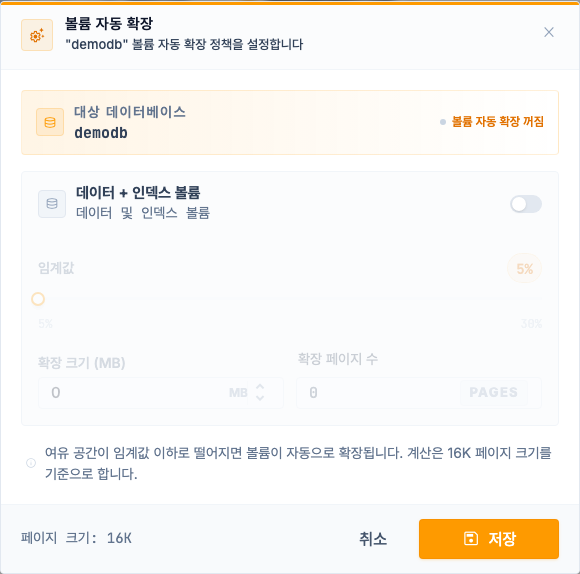
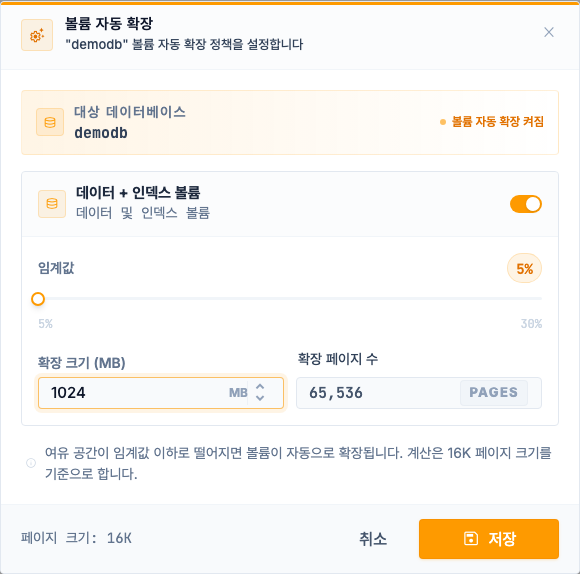
Capture missing screenshots: host groups, CMS user mgmt, DB user edit/delete
Adds real Playwright-captured screenshots for gaps flagged in review:
- auth.rst: header controls (language toggle, dark mode, logout) for the
  logout/language section, which had no screenshot at all
- host.rst: New Group, Rename Group, Manage Group, and Delete Group
  confirm dialogs; CMS User Management screen
- db_user.rst: Edit User and Delete User confirm dialogs
- automation.rst: recaptured query-plan.png and automation-set-volume.png
  filled with realistic values (schedule, threshold, expansion size)
  instead of empty defaults, so the screenshot actually shows what a
  configured plan looks like

Captured against the live demodb instance; the temporary group and DB
user created for the group-management and user edit/delete shots were
deleted again by the same script run, so no test data was left behind.

diff --git a/web-manager-manual/host.rst b/web-manager-manual/host.rst
@@ -98,11 +98,19 @@ NCA 서버가 해당 호스트에서 실행 중인 CMS(CUBRID Manager Server)의
 그룹 생성(New Group) / 이름 변경(Rename Group)
 ================================================
 
+.. image:: /images/host-group-new.png
+
 툴바 **새 그룹(New Group)** 또는 그룹 우클릭 → **그룹 이름 변경(Rename Group)** 을 선택한다. 필드는 **그룹 이름(Group Name)** \* 하나이며, 필수 입력 항목이다
 (비워두고 저장하면 "그룹 이름을 입력하세요." 오류가 표시된다).
 
+.. image:: /images/host-group-rename.png
+
+**그룹 이름 변경(Rename Group)** 은 같은 대화창을 재사용하며, 기존 이름이 미리 채워진 채로 열린다.
+
 그룹 삭제(Delete Group)
 ========================
+
+.. image:: /images/host-group-delete-confirm.png
 
 그룹 우클릭 → **그룹 삭제(Delete Group)** 을 선택한다.
 
@@ -113,11 +121,15 @@ NCA 서버가 해당 호스트에서 실행 중인 CMS(CUBRID Manager Server)의
 그룹 멤버 관리(Manage Group)
 ==============================
 
+.. image:: /images/host-group-manage.png
+
 그룹 우클릭 → **그룹 관리(Manage Group)** 을 선택한다. 호스트 목록에서 체크하면 그룹에 추가되고, 체크 해제하면 Ungrouped로 이동한다.
 저장 후 그룹이 자동으로 펼쳐지지 않으므로 직접 펼쳐서 확인한다.
 
 CMS 사용자 관리(User Management)
 ==================================
+
+.. image:: /images/host-cms-user-management.png
 
 로그인된 호스트 우클릭 → **사용자 관리(User Management)** 를 선택한다.
 

diff --git a/web-manager-manual/db_user.rst b/web-manager-manual/db_user.rst
@@ -28,6 +28,8 @@ CUBRID 데이터베이스 안에 실제로 존재하는 DB 계정(``db_user``/``
 사용자 편집(Edit User)
 ========================
 
+.. image:: /images/db-user-edit.png
+
 사용자 우클릭 → **사용자 편집(Edit User)** 을 선택하면 사용자 생성과 같은 대화창이 "편집" 모드로 열린다.
 
 * **사용자 이름(Username)** 은 수정할 수 없다 — 필드가 잠긴 채로 표시된다.
@@ -36,6 +38,8 @@ CUBRID 데이터베이스 안에 실제로 존재하는 DB 계정(``db_user``/``
 
 사용자 삭제(Delete User)
 ==========================
+
+.. image:: /images/db-user-delete-confirm.png
 
 사용자 우클릭 → **사용자 삭제(Delete User)** 를 선택하면 **데이터베이스 사용자 삭제** 확인 대화창이 열린다.
 삭제할 사용자 이름과 소속 데이터베이스가 표시되며, 이 작업은 되돌릴 수 없다는 경고와 함께 **취소** / **사용자 삭제**

diff --git a/web-manager-manual/auth.rst b/web-manager-manual/auth.rst
@@ -62,4 +62,6 @@
 로그아웃(Logout) / 언어 전환(Language)
 ========================================
 
+.. image:: /images/auth-header-controls.png
+
 **로그아웃(Logout)** 버튼을 누르면 확인창 없이 즉시 로그아웃되어 로그인 화면으로 돌아간다.
